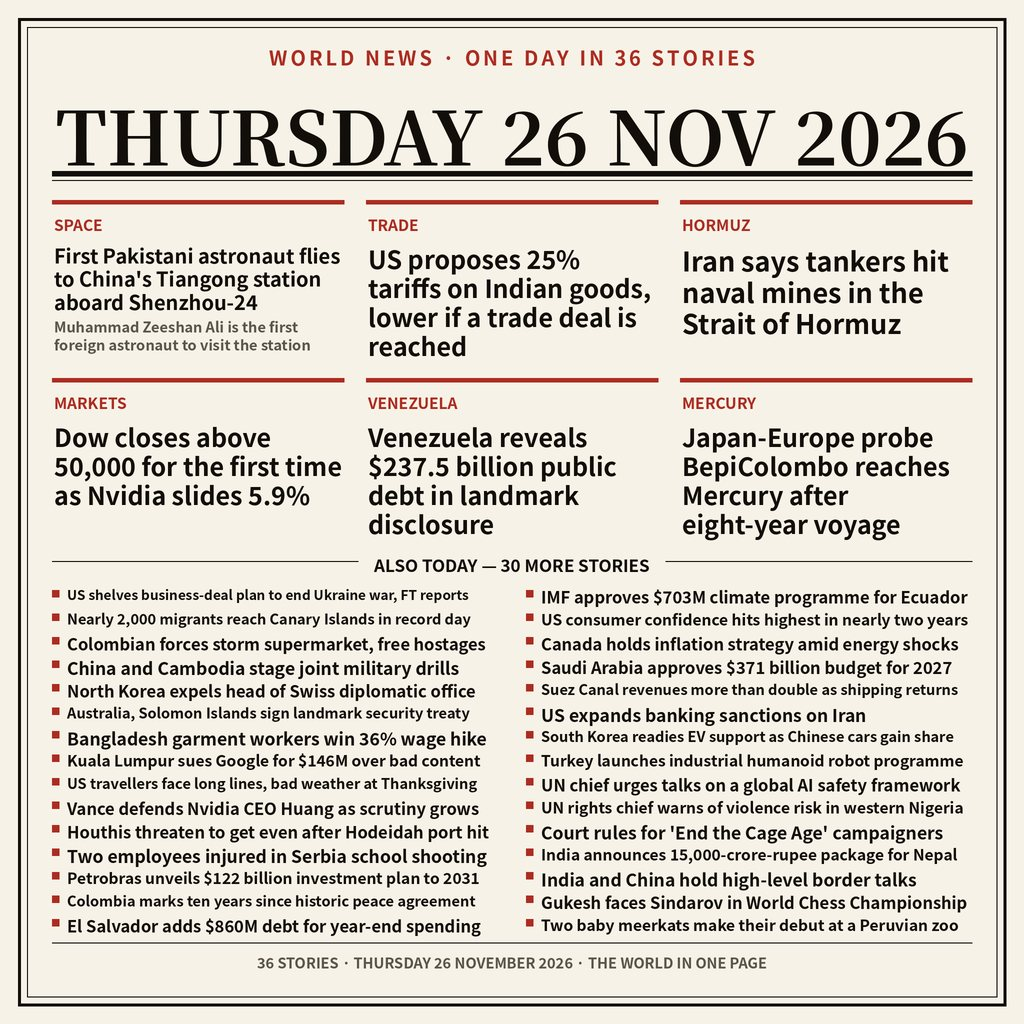
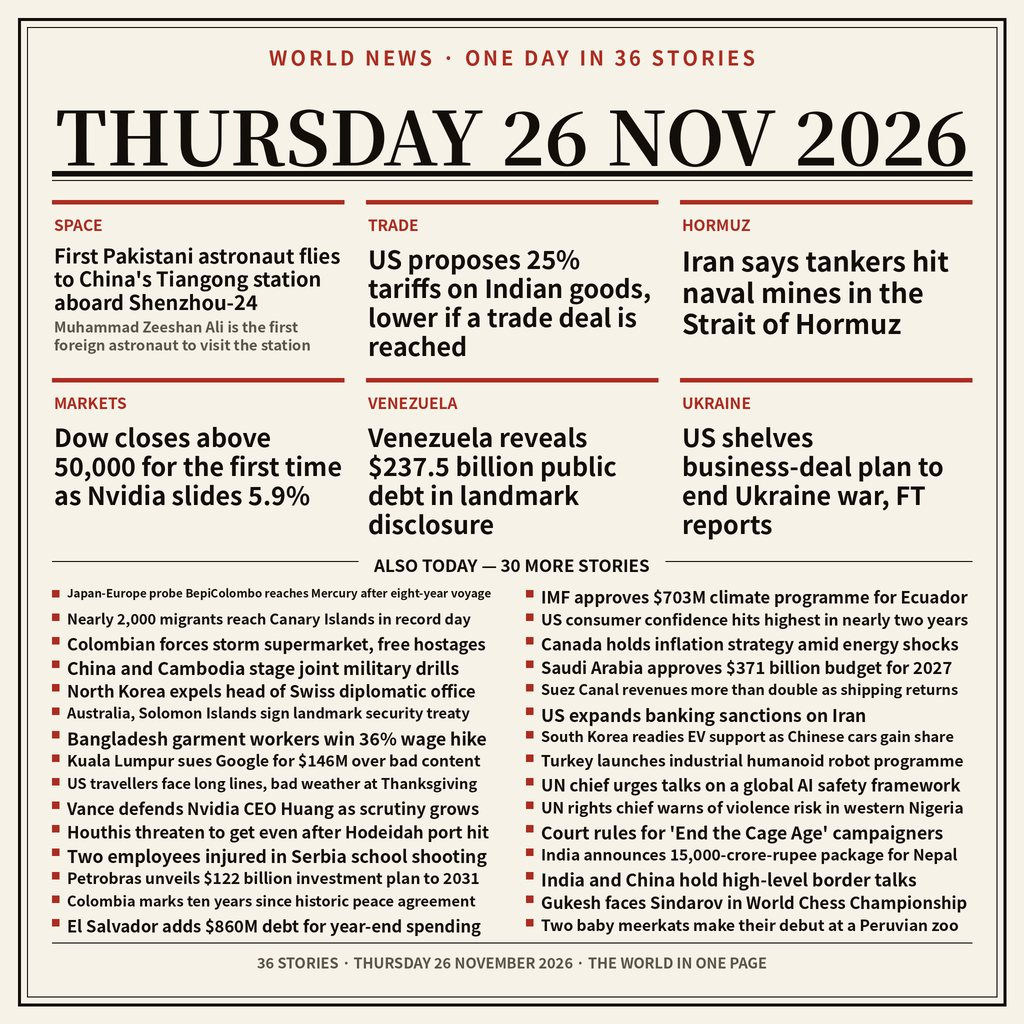
Fix badge URLs for recreated repo name; promote Ukraine story to top six per editor review

Changed region(s): [[0.6562, 0.375, 0.9375, 0.5312], [0.0625, 0.5625, 0.4688, 0.5938]]

diff --git a/README.md b/README.md
@@ -1,8 +1,8 @@
 # One Day in 36 Stories - Thu 26 Nov 2026
 
 [![make.fun · news-image-20261126](https://make.fun/badge/news-image-20261126.svg)](https://make.fun/bounty/news-image-20261126?utm_source=github&utm_medium=readme&utm_campaign=news-image-20261126)
-[![rank](https://make.fun/badge/news-image-20261126/yuumu2/news-image-20261126/rank.svg)](https://make.fun/bounty/news-image-20261126/leaderboard?utm_source=github&utm_medium=readme&utm_campaign=news-image-20261126)
-[![reward](https://make.fun/badge/news-image-20261126/yuumu2/news-image-20261126/reward.svg)](https://make.fun/bounty/news-image-20261126?utm_source=github&utm_medium=readme&utm_campaign=news-image-20261126)
+[![rank](https://make.fun/badge/news-image-20261126/yuumu2/news-image-20261126-/rank.svg)](https://make.fun/bounty/news-image-20261126/leaderboard?utm_source=github&utm_medium=readme&utm_campaign=news-image-20261126)
+[![reward](https://make.fun/badge/news-image-20261126/yuumu2/news-image-20261126-/reward.svg)](https://make.fun/bounty/news-image-20261126?utm_source=github&utm_medium=readme&utm_campaign=news-image-20261126)
 
 This make.fun bounty entry sums up the world news of 26 November 2026 in one image. Each run of `main.py` copies the exact bytes of `entry_image.jpg` to `entry.png` in the directory specified by `MAKEFUN_OUTPUT_DIR`, or in `/output` if the variable is unset.
 
